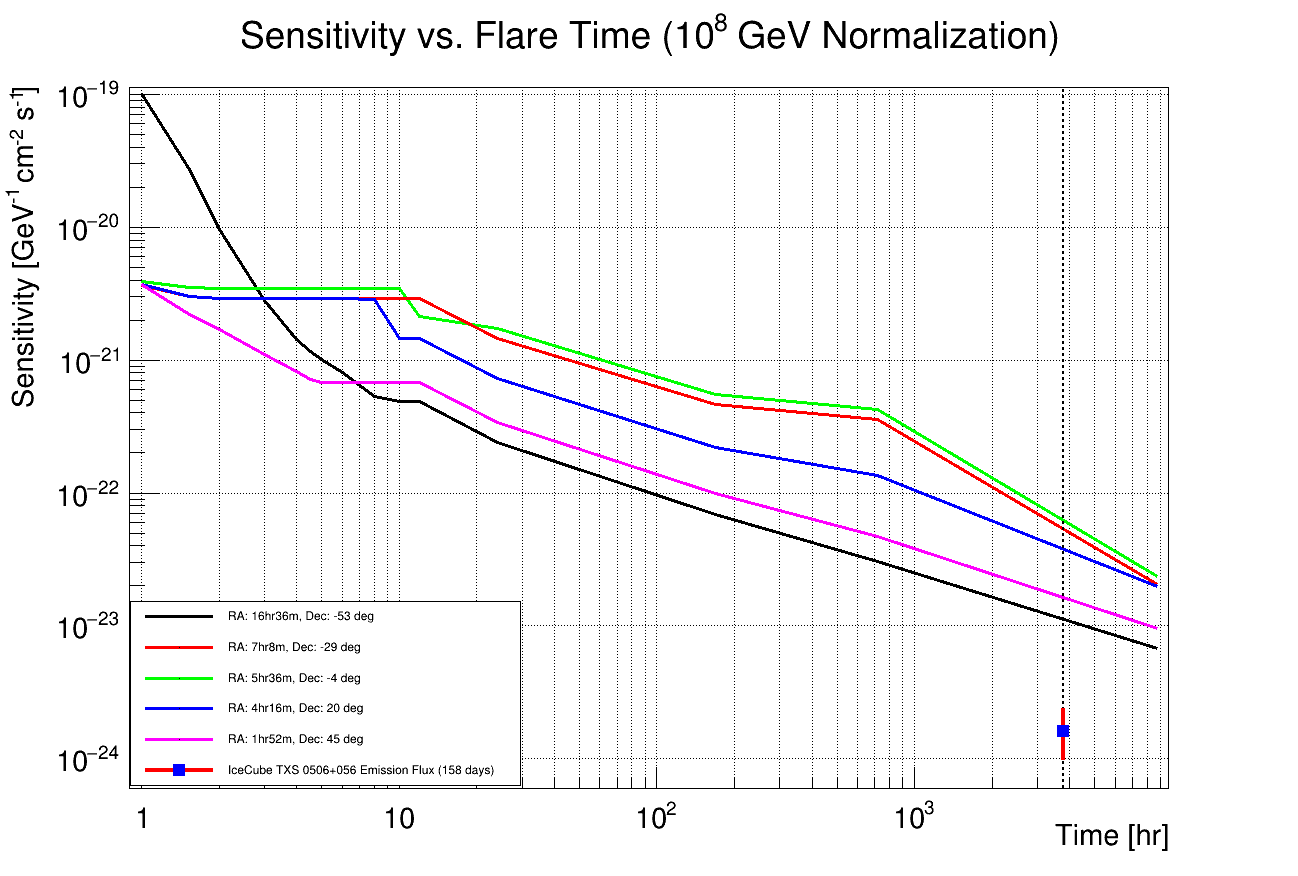
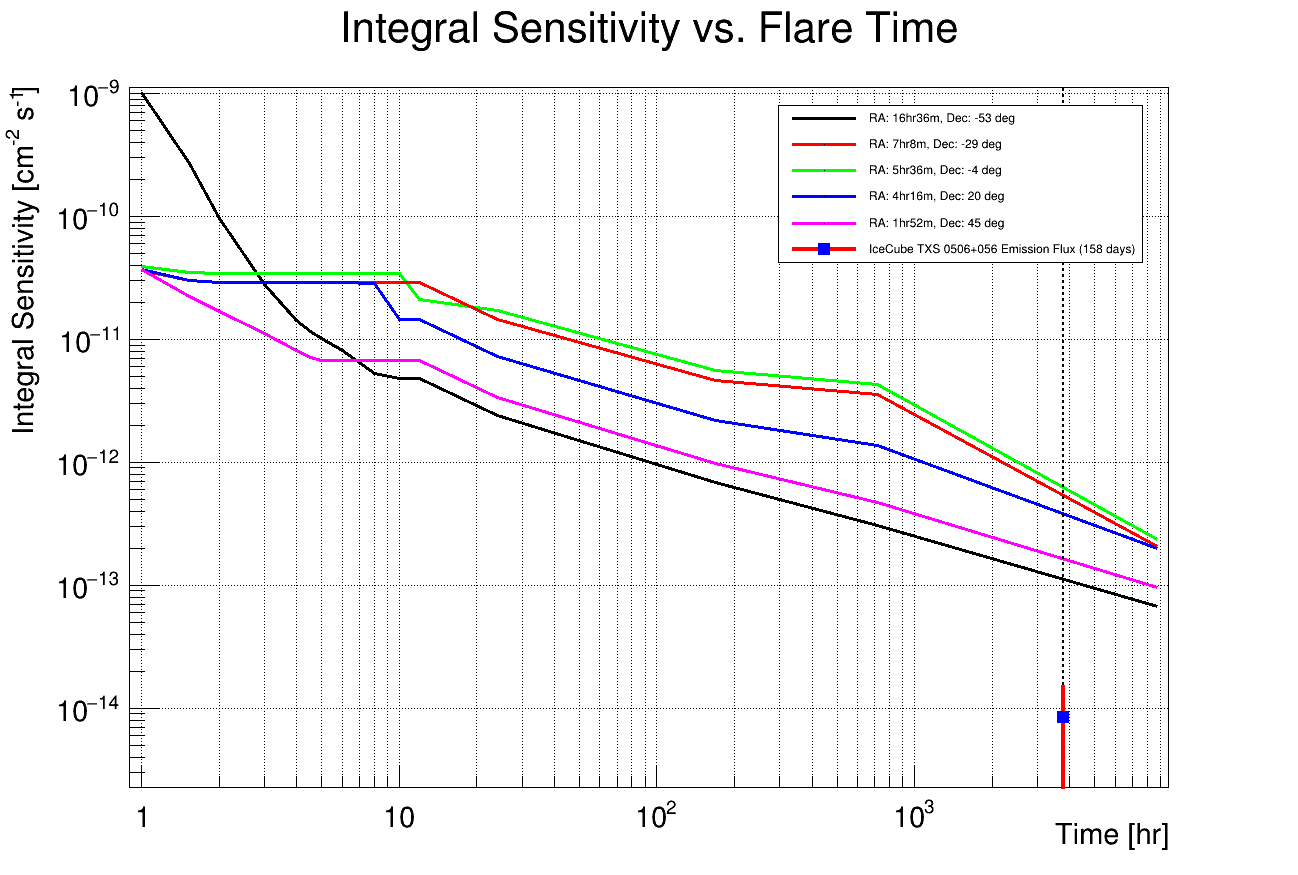
icecube error prop

diff --git a/TrinityPerformanceCalculations.cpp b/TrinityPerformanceCalculations.cpp
@@ -4563,10 +4563,17 @@ void PlotFlareFlux()
 	Double_t iceCubeFluxMin = 1e-18;
 	Double_t iceCubeFluxMax = 2.3e-18;
 	Double_t iceCubeNorm = 1e5; // GeV
-	Double_t iceCubeFluxAdj = pow((iceCubeNorm / Enaught), nuIndex) * iceCubeFlux;
-	Double_t iceCubeFluxAdjMin = pow((iceCubeNorm / Enaught), nuIndex) * iceCubeFluxMin;
-	Double_t iceCubeFluxAdjMax = pow((iceCubeNorm / Enaught), nuIndex) * iceCubeFluxMax;
-	
+  Double_t iceCubeIndex = 2.2;
+  Double_t iceCubeIndexError = 0.2;
+  // cout<<"Upper: "<<sqrt( pow((iceCubeFlux * pow((iceCubeNorm / Enaught), iceCubeIndex) * log(iceCubeNorm / Enaught) * (iceCubeIndexError)), 2) + pow((pow((iceCubeNorm / Enaught), iceCubeIndex) * (iceCubeFluxMax - iceCubeFlux)), 2) )<<endl;
+  // cout<<"Lower: "<<sqrt( pow((iceCubeFlux * pow((iceCubeNorm / Enaught), iceCubeIndex) * log(iceCubeNorm / Enaught) * (iceCubeIndexError)), 2) + pow((pow((iceCubeNorm / Enaught), iceCubeIndex) * (iceCubeFlux - iceCubeFluxMin)), 2) )<<endl;
+	// Double_t iceCubeFluxAdj = pow((iceCubeNorm / Enaught), iceCubeIndex) * iceCubeFlux;
+	// Double_t iceCubeFluxAdjMax = sqrt( pow((iceCubeFlux * pow((iceCubeNorm / Enaught), iceCubeIndex) * log(iceCubeNorm / Enaught) * (iceCubeIndexError)), 2) + pow((pow((iceCubeNorm / Enaught), iceCubeIndex) * (iceCubeFluxMax - iceCubeFlux)), 2) );
+	// Double_t iceCubeFluxAdjMin = sqrt( pow((iceCubeFlux * pow((iceCubeNorm / Enaught), iceCubeIndex) * log(iceCubeNorm / Enaught) * (iceCubeIndexError)), 2) + pow((pow((iceCubeNorm / Enaught), iceCubeIndex) * (iceCubeFlux - iceCubeFluxMin)), 2) );
+	Double_t iceCubeFluxAdj = 8.412631259735924e-15;
+  Double_t iceCubeFluxAdjMax = 6.432934436004085e-15;
+  Double_t iceCubeFluxAdjMin = 6.147254371862403e-15;
+  
 	cout<<"Adj: "<<iceCubeFluxAdj<<" Min: "<<iceCubeFluxAdjMin<<" Max: "<<iceCubeFluxAdjMax<<endl;
 	
 	Double_t accs1[nPoints];
@@ -4674,15 +4681,20 @@ void PlotFlareFlux()
 	
 	for(int i = 0; i < nPoints; i++)
 	{
-		Fnaught1[i] = pow(Enaught, -nuIndex) / (accs1[i] * normInverse);
-    Fnaught2[i] = pow(Enaught, -nuIndex) / (accs2[i] * normInverse);
-    Fnaught3[i] = pow(Enaught, -nuIndex) / (accs3[i] * normInverse);
-    Fnaught4[i] = pow(Enaught, -nuIndex) / (accs4[i] * normInverse);
-    Fnaught5[i] = pow(Enaught, -nuIndex) / (accs5[i] * normInverse);
+		Fnaught1[i] = 1.0 / accs1[i];
+    Fnaught2[i] = 1.0 / (accs2[i]);
+    Fnaught3[i] = 1.0 / (accs3[i]);
+    Fnaught4[i] = 1.0 / (accs4[i]);
+    Fnaught5[i] = 1.0 / (accs5[i]);
+    // Fnaught1[i] = pow(Enaught, -nuIndex) / (accs1[i] * normInverse);
+    // Fnaught2[i] = pow(Enaught, -nuIndex) / (accs2[i] * normInverse);
+    // Fnaught3[i] = pow(Enaught, -nuIndex) / (accs3[i] * normInverse);
+    // Fnaught4[i] = pow(Enaught, -nuIndex) / (accs4[i] * normInverse);
+    // Fnaught5[i] = pow(Enaught, -nuIndex) / (accs5[i] * normInverse);
 		//cout<<"Time: "<<flareT[i]<<" Flux: "<<Fnaught[i]<<endl;
 	}
 	
-	TCanvas *fluxT = new TCanvas("fluxT", "Sensitivity vs. Flare Time", 1300, 900);
+	TCanvas *fluxT = new TCanvas("fluxT", "Integral Sensitivity vs. Flare Time", 1300, 900);
   
   TGraph *fluxTplot[5];
   fluxTplot[0] = new TGraph(nPoints, flareT, Fnaught1);
@@ -4693,9 +4705,9 @@ void PlotFlareFlux()
 
   for(int i = 0; i < 5; i++)
   {
-    fluxTplot[i]->GetYaxis()->SetTitle("Sensitivity [GeV^{-1} cm^{-2} s^{-1}]");
+    fluxTplot[i]->GetYaxis()->SetTitle("Integral Sensitivity [cm^{-2} s^{-1}]");
     fluxTplot[i]->GetXaxis()->SetTitle("Time [hr]");
-    fluxTplot[i]->SetTitle("Sensitivity vs. Flare Time (10^{8} GeV Normalization)");
+    fluxTplot[i]->SetTitle("Integral Sensitivity vs. Flare Time");
     fluxTplot[i]->SetLineWidth(3);
    // fluxTplot[i]->SetLineStyle(i + 1);
   }
@@ -4731,9 +4743,9 @@ void PlotFlareFlux()
   Double_t x[1] = {3792.};
   Double_t y[1]  = {iceCubeFluxAdj};
   Double_t exl[1] = {0};
-  Double_t eyl[1] = {iceCubeFluxAdj - iceCubeFluxAdjMin};
+  Double_t eyl[1] = {iceCubeFluxAdjMin};
   Double_t exh[1] = {0};
-  Double_t eyh[1] = {iceCubeFluxAdjMax - iceCubeFluxAdj};
+  Double_t eyh[1] = {iceCubeFluxAdjMax};
   
   TGraph *gr = new TGraphAsymmErrors(1,x,y,exl,exh,eyl,eyh);
   gr->SetMarkerColor(4);
@@ -4743,7 +4755,7 @@ void PlotFlareFlux()
   gr->SetLineColor(2);
   gr->Draw("LP");
 
-  TLegend *leg = new TLegend(0.3, 0.21, 0.3, 0.21);
+  TLegend *leg = new TLegend(0.6,0.7,0.88,0.88);
   leg->AddEntry(fluxTplot[0], "RA: 16hr36m, Dec: -53 deg", "lp");
   leg->AddEntry(fluxTplot[1], "RA: 7hr8m, Dec: -29 deg", "lp");
   leg->AddEntry(fluxTplot[2], "RA: 5hr36m, Dec: -4 deg", "lp");
